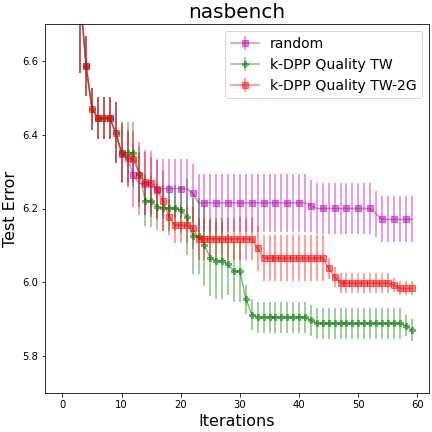
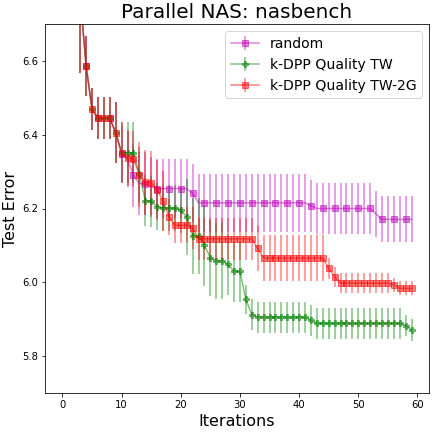
u

Changed region(s): [[0.2708, 0.0, 0.8125, 0.0602]]

diff --git a/run_experiments/plot_result_batch.py b/run_experiments/plot_result_batch.py
@@ -102,7 +102,7 @@ for search_space in search_space_list:
     plt.xlabel('Iterations',fontsize=16)
     
         
-    plt.title(search_space,fontsize=20)
+    plt.title("Parallel NAS: "+search_space,fontsize=20)
 
 
     if search_space=='nasbench':
@@ -110,11 +110,11 @@ for search_space in search_space_list:
     
     else: # nasbench201
         if 'cifar100' in search_space:
-            plt.ylim([38.5,43])    
+            plt.ylim([38.5,42])    
         elif 'cifar10' in search_space:
-            plt.ylim([10.8,14])    
+            plt.ylim([10.8,13])    
         elif 'ImageNet16-120' in search_space:
-            plt.ylim([62,67])    
+            plt.ylim([62,66])    
 
     strFile="fig/batch_{:s}.png".format(search_space)
     print(strFile)

diff --git a/run_experiments/plot_results_sequential.py b/run_experiments/plot_results_sequential.py
@@ -118,7 +118,7 @@ for search_space in search_space_list:
     plt.xlabel('Iterations',fontsize=16)
     
     
-    plt.title(search_space,fontsize=20)
+    plt.title("Seq NAS: "+search_space,fontsize=20)
     
         
     if search_space=='nasbench':

diff --git a/README.md b/README.md
@@ -52,17 +52,15 @@ python plot_result_batch.py
 
 Examples of the results over 5 independent runs.
 
-<img src="./run_experiments/fig/batch_nasbench201_cifar10.png" width="200" height="200" /> <img src="./run_experiments/fig/batch_nasbench201_cifar100.png" width="200" height="200" />
+## Parallel NAS
+
+<img src="./run_experiments/fig/batch_nasbench201_cifar10.png" width="250" height="250" /> <img src="./run_experiments/fig/batch_nasbench201_cifar100.png" width="250" height="250" />
+<img src="./run_experiments/fig/batch_nasbench201_ImageNet16-120.png" width="250" height="250" /> <img src="./run_experiments/fig/batch_nasbench.png" width="250" height="250" />
+
+## Sequential NAS
+<img src="./run_experiments/fig/sequential_nasbench201_cifar10.png" width="250" height="250" /> <img src="./run_experiments/fig/sequential_nasbench201_cifar100.png" width="250" height="250" />
 
 
-![plot](./run_experiments/fig/batch_nasbench201_cifar10.png)
-![plot](./run_experiments/fig/batch_nasbench201_cifar100.png)
-![plot](./run_experiments/fig/batch_nasbench201_ImageNet16-120.png)
-![plot](./run_experiments/fig/batch_nasbench.png)
-
-![plot](./run_experiments/fig/sequential_nasbench201_cifar10.png)
-![plot](./run_experiments/fig/sequential_nasbench201_cifar100.png)
-![plot](./run_experiments/fig/sequential_nasbench201_ImageNet16-120.png)
 
 # Paper and Presentation
 ```
